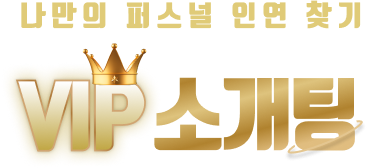
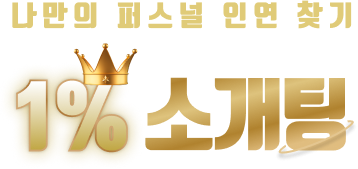
사소한VIP -> 사소한1% 문구변경적용

diff --git a/src/pages/AboutVIP.js b/src/pages/AboutVIP.js
@@ -153,11 +153,11 @@ const AboutVIP = () => {
                 <div className="cont4">
                     <div className="txt_box">
                         <img src={main_txt_img} alt="vip 소개팅" />
-                        <p className="txt">사소한 VIP 소개팅 서비스는 <br/><strong>결제 회원님과 VIP 회원님</strong><br/>으로 구성되어 있습니다. </p>
+                        <p className="txt">사소한 1% 소개팅 서비스는 <br/><strong>결제 회원님과 1% 회원님</strong><br/>으로 구성되어 있습니다. </p>
                         <p className="txt2">두 유형의 회원님들은 매니저의 매칭을 통해 서로 소개팅을 주선받습니다. <br/><br/>
-                            결제 회원은 매칭에 비용을 투자하여 <br/ >
-                            자신이 원하는 VIP회원을 선택, 소개를 받는 권리를 갖게 됩니다.<br/>
-                            반면, VIP 회원은 자신의 매력을 인정받아 소개팅 시 매너베이트를 전달받는 혜택을 누리게 됩니다.</p>
+                            결제 회원은 매칭에 비용을 투자하여 <br/>
+                            자신이 원하는 1% 회원을 선택, 소개를 받는 권리를 갖게 됩니다.<br/>
+                            반면, 1% 회원은 자신의 매력을 인정받아 소개팅 시 매너베이트를 전달받는 혜택을 누리게 됩니다.</p>
                     </div>
                     <div className="img_box">
                         <img src={main_img} alt="vip 소개팅" />
@@ -170,7 +170,7 @@ const AboutVIP = () => {
             <div className={`vip_sect vip_sect1 ${sect1On ? "on" : ""}`} ref={sect1Ref}>
                 <div className="tx_c tit">
                     <div><img src={vip_txt_img} alt="사소한 vip" /></div>
-                    <p>사소한만의 <strong>VIP회원</strong></p>
+                    <p>사소한만의 <strong>1%회원</strong></p>
                 </div>
                 <div className="vip_slider_wrap">
                     <div className="cont4">
@@ -202,7 +202,7 @@ const AboutVIP = () => {
                                     <SwiperSlide key={i}>
                                         <div className="img_box">
                                             <img src={cont.profile} alt="vip 회원" />
-                                            {/* <p>실제 사소한 VIP 회원입니다.</p> */}
+                                            {/* <p>실제 사소한 1% 회원입니다.</p> */}
                                         </div>
                                     </SwiperSlide>
                                 );
@@ -220,13 +220,13 @@ const AboutVIP = () => {
             <div className={`vip_sect vip_sect2 ${sect2On ? "on" : ""}`} ref={sect2Ref}>
                 <div className="cont4">
                     <div className="tx_c">
-                        <div className="txt">위 프로필은 실제 사소한을 이용하고 있는 VIP 회원으로, <br/>회원님들의 동의하에 사소한의 VIP 회원 모델로 게시하고 있습니다.</div>
+                        <div className="txt">위 프로필은 실제 사소한을 이용하고 있는 1% 회원으로, <br/>회원님들의 동의하에 사소한의 1% 회원 모델로 게시하고 있습니다.</div>
                         <div className="txt_box">
                             <div className="line"></div>
                             <div className="mo_none"><img src={vip_sect2_txt_img} alt="vip 소개팅" /></div>
                             <div className="mo_show">
                                 <div className="bp10"><img src={vip_sect2_txt_img_mo} alt="상위 5%" /></div>
-                                <p><strong>VIP 회원과의 만남,</strong><br/>사소한에선 가능합니다!</p>
+                                <p><strong>1% 회원과의 만남,</strong><br/>사소한에선 가능합니다!</p>
                             </div>
                         </div>
                     </div> 
@@ -240,17 +240,17 @@ const AboutVIP = () => {
                     </div>
                     <div className="txt_box">
                         <img src={sasohan_vip_txt2} alt="사소한 vip" />
-                        <p className="txt">VIP 소개팅의 장점</p>
-                        <p className="txt2">우리 VIP 회원님들은 직관적 평가 99.9%<br/><strong>“아름답습니다!”,  “잘생겼습니다!” </strong><br/>외적인 매력이 "상위 5%"입니다.</p>
+                        <p className="txt">1% 소개팅의 장점</p>
+                        <p className="txt2">우리 1% 회원님들은 직관적 평가 99.9%<br/><strong>“아름답습니다!”,  “잘생겼습니다!” </strong><br/>외적인 매력이 "상위 1%"입니다.</p>
                         <p className="txt3">단순하지만 비용을 지불하는 소개팅에 있어 본질적으로 최고의 장점입니다.<br/>
                             그간 비용을 지불하는 소개팅에서 원하지 않는 상대와의 매칭을 강요당한 경험이 있으신가요?<br/>
                             돈을 내는 소개팅에서는 최소한 <br/>
                             <span>자신이 원하는 상대를 받을 권리와 기회는 보장이 되어야 한다고 생각합니다.</span><br/>
-                            그렇기에 사소한 VIP 소개팅은 최대한 이상형에 가까운 VIP 회원님들을 보여드립니다.<br/><br/>
-                            그리고 만약 그 VIP 회원님을 당신이 선택 한다면, <br/><br/>
+                            그렇기에 사소한 1% 소개팅은 최대한 이상형에 가까운 1% 회원님들을 보여드립니다.<br/><br/>
+                            그리고 만약 그 1% 회원님을 당신이 선택 한다면, <br/><br/>
                             언제라도 소개 테이블로 모셔와 두 분이 소개팅을 진행할 수 있는 서비스를 제공해 드리고 있습니다.<br/>
                             사소한은 지난 10년의 노하우로 그것을 가능케 하는 능력이 있습니다.</p>
-                        <p className="txt4">사소한 VIP 소개팅은 당신의 이상형에 대한 권리와 기회를 보장해 드리겠습니다!</p>
+                        <p className="txt4">사소한 1% 소개팅은 당신의 이상형에 대한 권리와 기회를 보장해 드리겠습니다!</p>
                     </div>
                 </div>
             </div>
@@ -262,7 +262,7 @@ const AboutVIP = () => {
                             <p className="tit">결제 회원이란?</p>
                             <div>
                                 <p className="txt"><strong>결제 회원님</strong>은 소개팅 과정을 주도하는 회원님입니다.</p>
-                                <p className="txt2">비용을 지불하고 VIP 회원님 중 마음에 드는 상대를 선택하여 매칭을 요청하실 수 있습니다. <br/>결제 회원님은 바쁜 일상에서 이성을 찾는 시간을 크게 절약하며 본인의 취향에 딱 맞는 이상형을 찾는 장점이 있습니다.</p>
+                                <p className="txt2">비용을 지불하고 1% 회원님 중 마음에 드는 상대를 선택하여 매칭을 요청하실 수 있습니다. <br/>결제 회원님은 바쁜 일상에서 이성을 찾는 시간을 크게 절약하며 본인의 취향에 딱 맞는 이상형을 찾는 장점이 있습니다.</p>
                             </div>
                         </div>
                         <div className="box tx_c">
@@ -270,7 +270,7 @@ const AboutVIP = () => {
                             <ul className="img_ul flex_between flex_wrap">
                                 <li>
                                     <div><img src={vip_sect4_img1} alt="이미지" /></div>
-                                    <p>선택한 VIP와 <br/>확정적 소개팅 가능</p>
+                                    <p>선택한 1%와 <br/>확정적 소개팅 가능</p>
                                 </li>
                                 <li>
                                     <div><img src={vip_sect4_img2} alt="이미지" /></div>
@@ -297,14 +297,14 @@ const AboutVIP = () => {
                 <div className="cont4">
                     <div className="vip_apply_cont">
                         <div className="txt_box flex_top">
-                            <p className="tit">VIP 회원이란?</p>
+                            <p className="tit">1% 회원이란?</p>
                             <div>
-                                <p className="txt"><strong>VIP 회원님</strong>은 이성에게 어필되는 매력이 상위 5%안에 드는 회원으로</p>
-                                <p className="txt2">사이트모집, 스카웃, 추천 등을 통하여 선발 모집합니다. <br/>사소한 소개팅의 VIP 회원은 특별한 매력을 인정받은 선별된 회원입니다.</p>
+                                <p className="txt"><strong>1% 회원님</strong>은 이성에게 어필되는 매력이 상위 1%안에 드는 회원으로</p>
+                                <p className="txt2">사이트모집, 스카웃, 추천 등을 통하여 선발 모집합니다. <br/>사소한 소개팅의 1% 회원은 특별한 매력을 인정받은 선별된 회원입니다.</p>
                             </div>
                         </div>
                         <div className="box tx_c">
-                            <p className="txt"><strong>VIP회원님</strong> 선정으로 아래와 같은 혜택을 받아보세요!</p>
+                            <p className="txt"><strong>1%회원님</strong> 선정으로 아래와 같은 혜택을 받아보세요!</p>
                             <ul className="img_ul flex_between flex_wrap">
                                 <li>
                                     <div><img src={vip_sect5_img1} alt="이미지" /></div>
@@ -312,7 +312,7 @@ const AboutVIP = () => {
                                 </li>
                                 <li>
                                     <div><img src={vip_sect5_img2} alt="이미지" /></div>
-                                    <p>VIP회원으로 선정 시 <br/>20만원 상당의 특전 제공</p>
+                                    <p>1%회원으로 선정 시 <br/>20만원 상당의 특전 제공</p>
                                 </li>
                                 <li>
                                     <div><img src={vip_sect5_img3} alt="이미지" /></div>
@@ -320,16 +320,16 @@ const AboutVIP = () => {
                                 </li>
                                 <li>
                                     <div><img src={vip_sect5_img4} alt="이미지" /></div>
-                                    <p>VIP 추천 시<br/>챠밍쉐어링 특전 제공</p>
+                                    <p>1% 추천 시<br/>챠밍쉐어링 특전 제공</p>
                                 </li>
                             </ul>
                             <div className="btn_box">
-                                <button type="button" className="btn_click" onClick={()=>dispatch(vipApplyPop(true))}>VIP 지원해 보세요!</button>
+                                <button type="button" className="btn_click" onClick={()=>dispatch(vipApplyPop(true))}>1% 지원해 보세요!</button>
                             </div>
                         </div>
                     </div>
                     <div className="gray_box">
-                        <p className="txt">아래의 사유 해당 시 VIP 회원은 취소됩니다.</p>
+                        <p className="txt">아래의 사유 해당 시 1% 회원은 취소됩니다.</p>
                         <ul className="txt_ul flex_wrap">
                             <li><strong>1. </strong>솔로, 미혼이 아닌 경우</li>
                             <li><strong>2. </strong>프로필 정보가 사실과 다를 경우</li>

diff --git a/src/components/layout/Header.js b/src/components/layout/Header.js
@@ -163,7 +163,7 @@ const Header = () => {
                 <nav className="gnb_wrap">
                     <ul className="gnb">
                         <li className={menuOn === 1 ? "on" : ""}><Link to="/">About 사소한</Link></li>
-                        <li className={menuOn === 2 ? "on" : ""}><Link to="/about-vip">VIP 소개팅</Link></li>
+                        <li className={menuOn === 2 ? "on" : ""}><Link to="/about-vip">1% 소개팅</Link></li>
                         <li className={`is_submenu${menuOn === 3 ? " on" : ""}`}>
                             <Link to="/square/all-feed" onClick={onLinkRefresh}>사소한 스퀘어</Link>
                             <div className='submenu_box'>
@@ -215,7 +215,7 @@ const Header = () => {
                                 dispatch(aboutVipScroll('vip_sect5'));
                                 navigate('/about-vip');
                             }}
-                        >VIP 지원</button>
+                        >1% 지원</button>
                     </div>
                 </div>
                 <button type='button' className='btn_menu' onClick={()=>setMenuWrap(true)}>모바일메뉴열기버튼</button>
@@ -279,7 +279,7 @@ const Header = () => {
                                 <Link to="/">About 사소한</Link>
                             </li>
                             <li className={menuOn === 2 ? "on" : ""}>
-                                <Link to="/about-vip">VIP 소개팅</Link>
+                                <Link to="/about-vip">1% 소개팅</Link>
                             </li>
                             <li className={menuOn === 3 ? "on" : ""}>
                                 <Link to="/square/all-feed" onClick={onLinkRefresh}>사소한 스퀘어</Link>

diff --git a/src/components/popup/VipApplyPop.js b/src/components/popup/VipApplyPop.js
@@ -303,7 +303,7 @@ const VipApplyPop = () => {
             <div className="pop_cont">
                 <button type="button" className="btn_close" onClick={closePopHandler}>닫기버튼</button>
                 <div className="apply_cont">
-                    <div className="tit">사소한 VIP 회원 지원하기</div>
+                    <div className="tit">사소한 1% 회원 지원하기</div>
                     <div className="form_box scroll_wrap">
                         <ul className="form_ul flex_between flex_wrap">
                             <li>

diff --git a/src/components/component/square/ListSearchBox.js b/src/components/component/square/ListSearchBox.js
@@ -51,7 +51,7 @@ const ListSearchBox = ({
                                     name="manager_type"
                                 />
                                 <div className="box flex">
-                                    <img src={manager_tag} alt="매니저타입 아이콘"/><span>VIP 매니저</span>
+                                    <img src={manager_tag} alt="매니저타입 아이콘"/><span>1% 매니저</span>
                                 </div>
                             </label>
                         </li>

diff --git a/src/css/breakpoint.css b/src/css/breakpoint.css
@@ -713,6 +713,7 @@
     .vip_slider .swiper-slide .img_box p{font-size: 12px;padding-top: 10px;}
     .vip_sect2{padding-top: 40px;}
     .vip_sect2 .txt{font-size: 16px;}
+    .vip_sect2 .txt_box .mo_show img{max-width: 94px;}
     .vip_sect2 .txt_box p{font-size: 32px;}
     .vip_sect2 .txt_box p strong{font-size: 40px;font-weight: 700;}
     .vip_sect3{padding: 40px 0 80px;}

diff --git a/src/components/layout/Footer.js b/src/components/layout/Footer.js
@@ -145,7 +145,7 @@ const Footer = () => {
                         dispatch(aboutVipScroll('vip_sect5'));
                         navigate('/about-vip');
                     }}
-                >VIP <br/>지원</button>
+                >1% <br/>지원</button>
             </div>
         </div>
 
